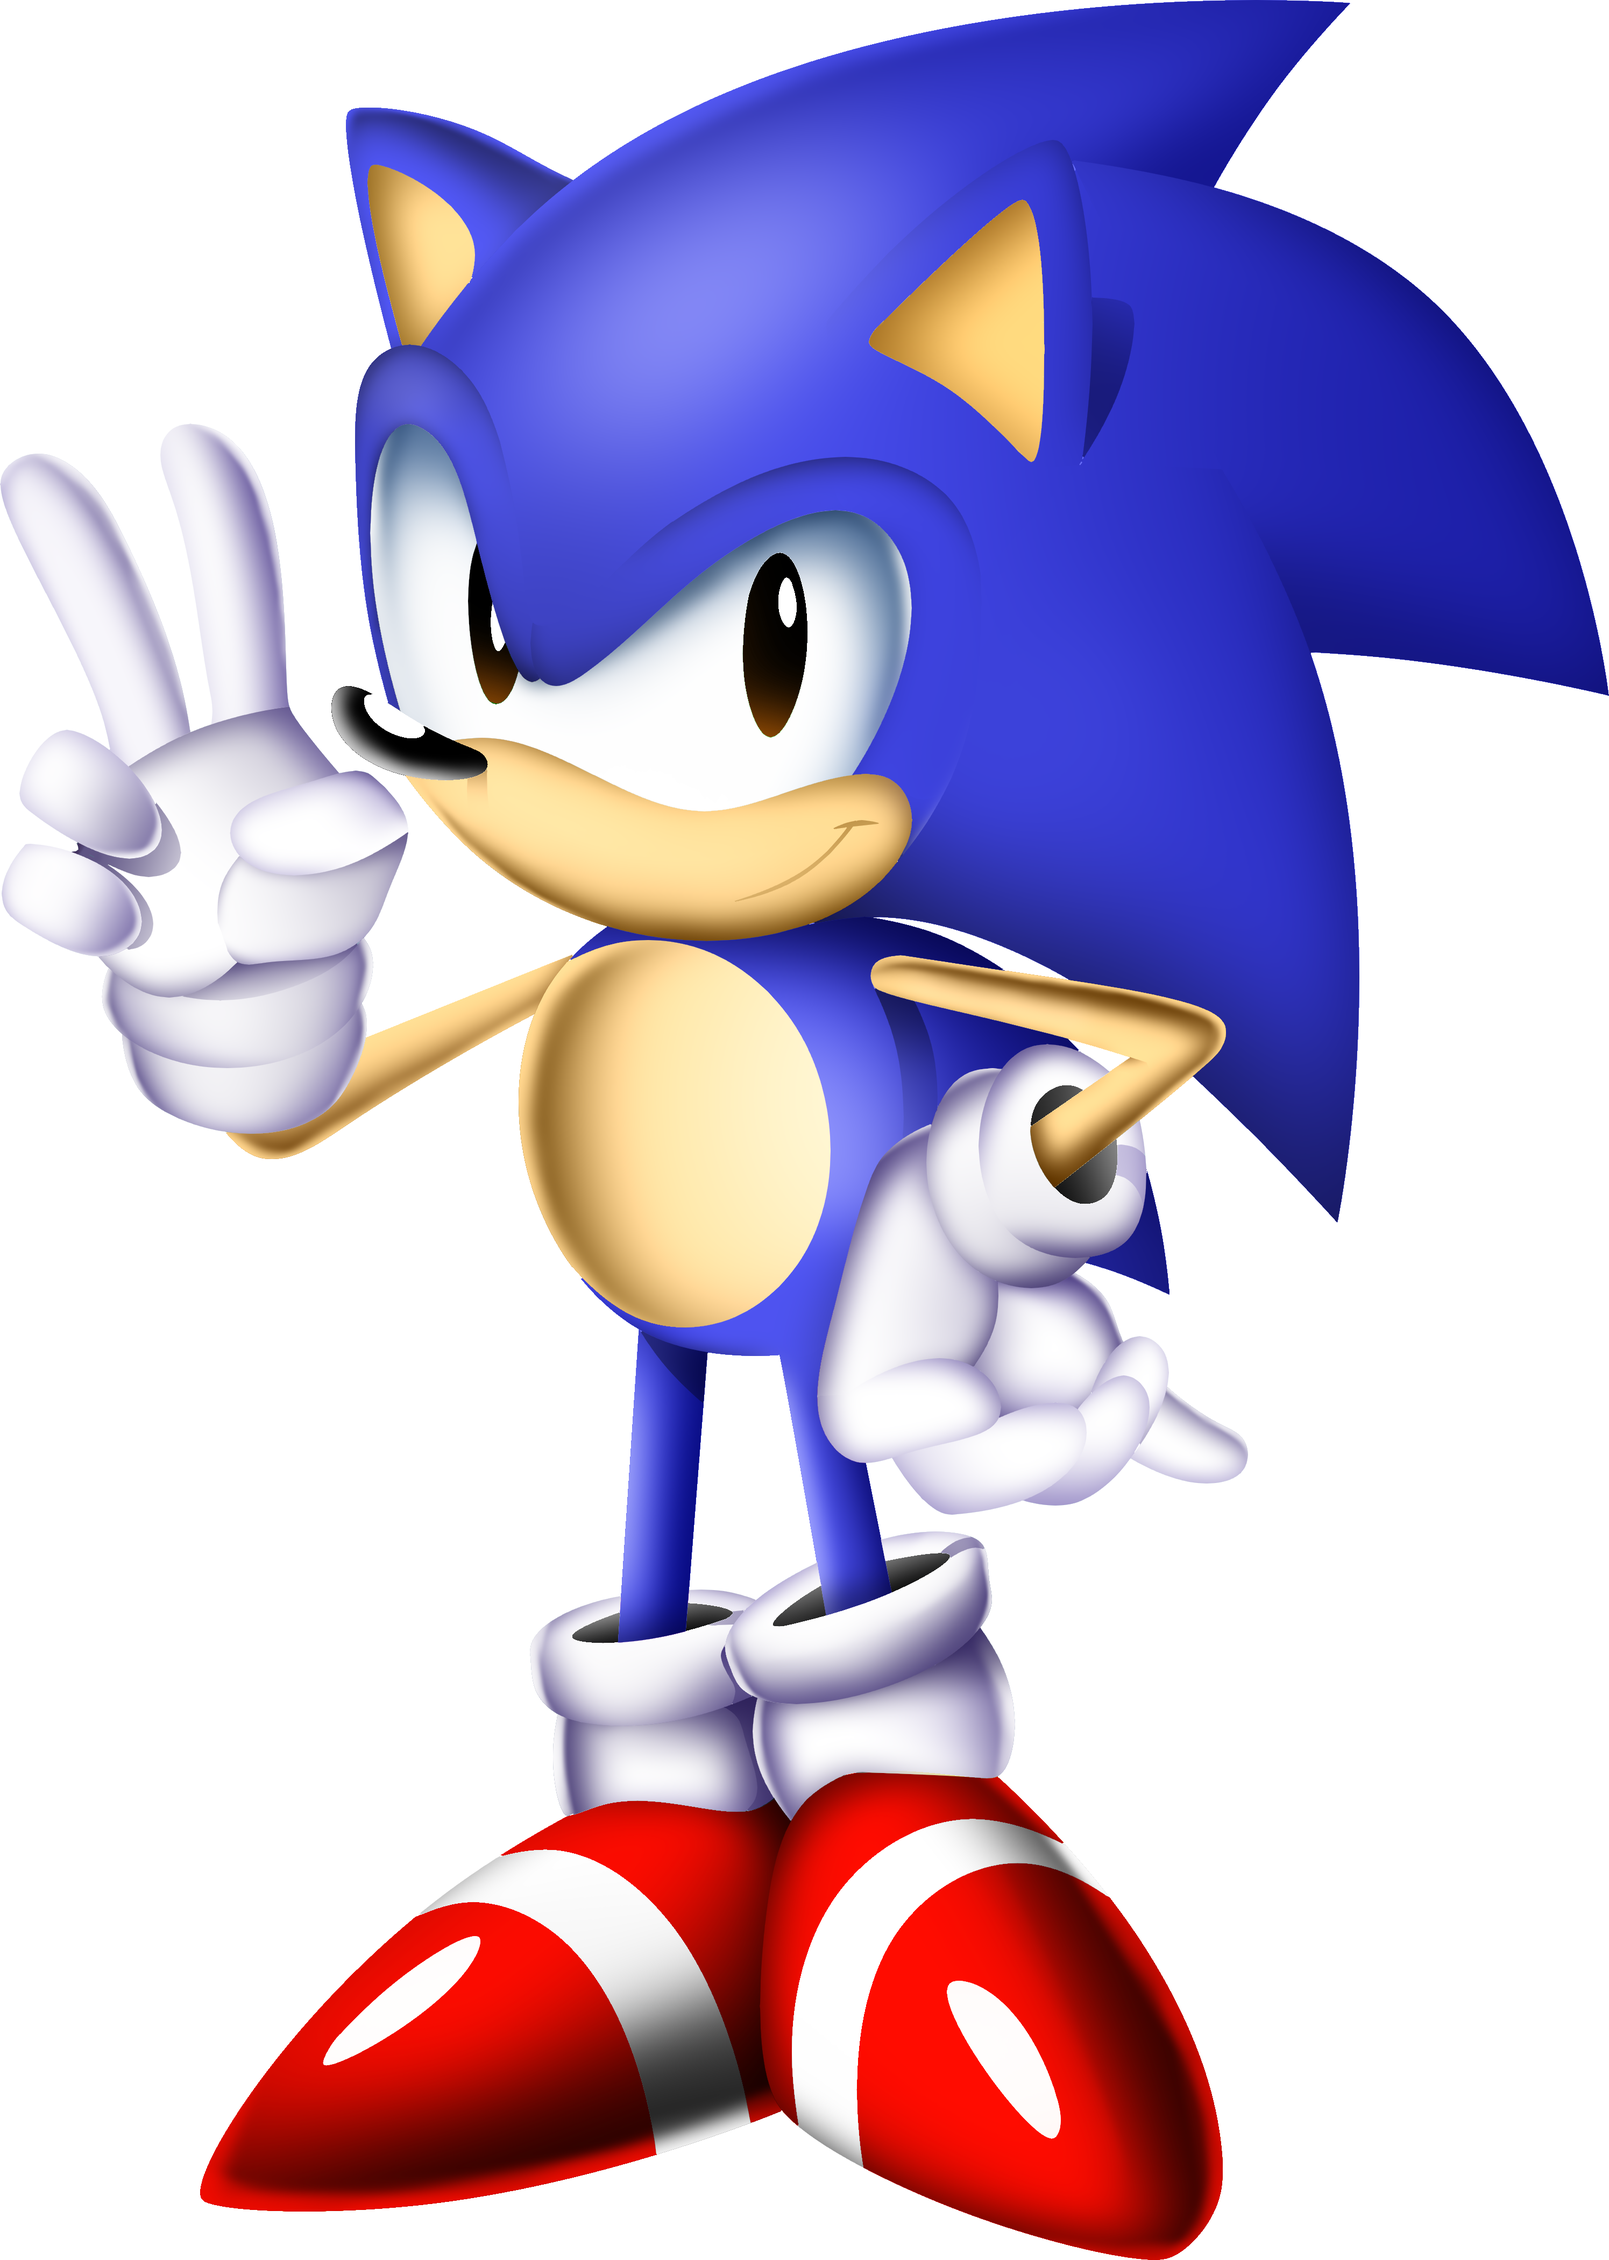
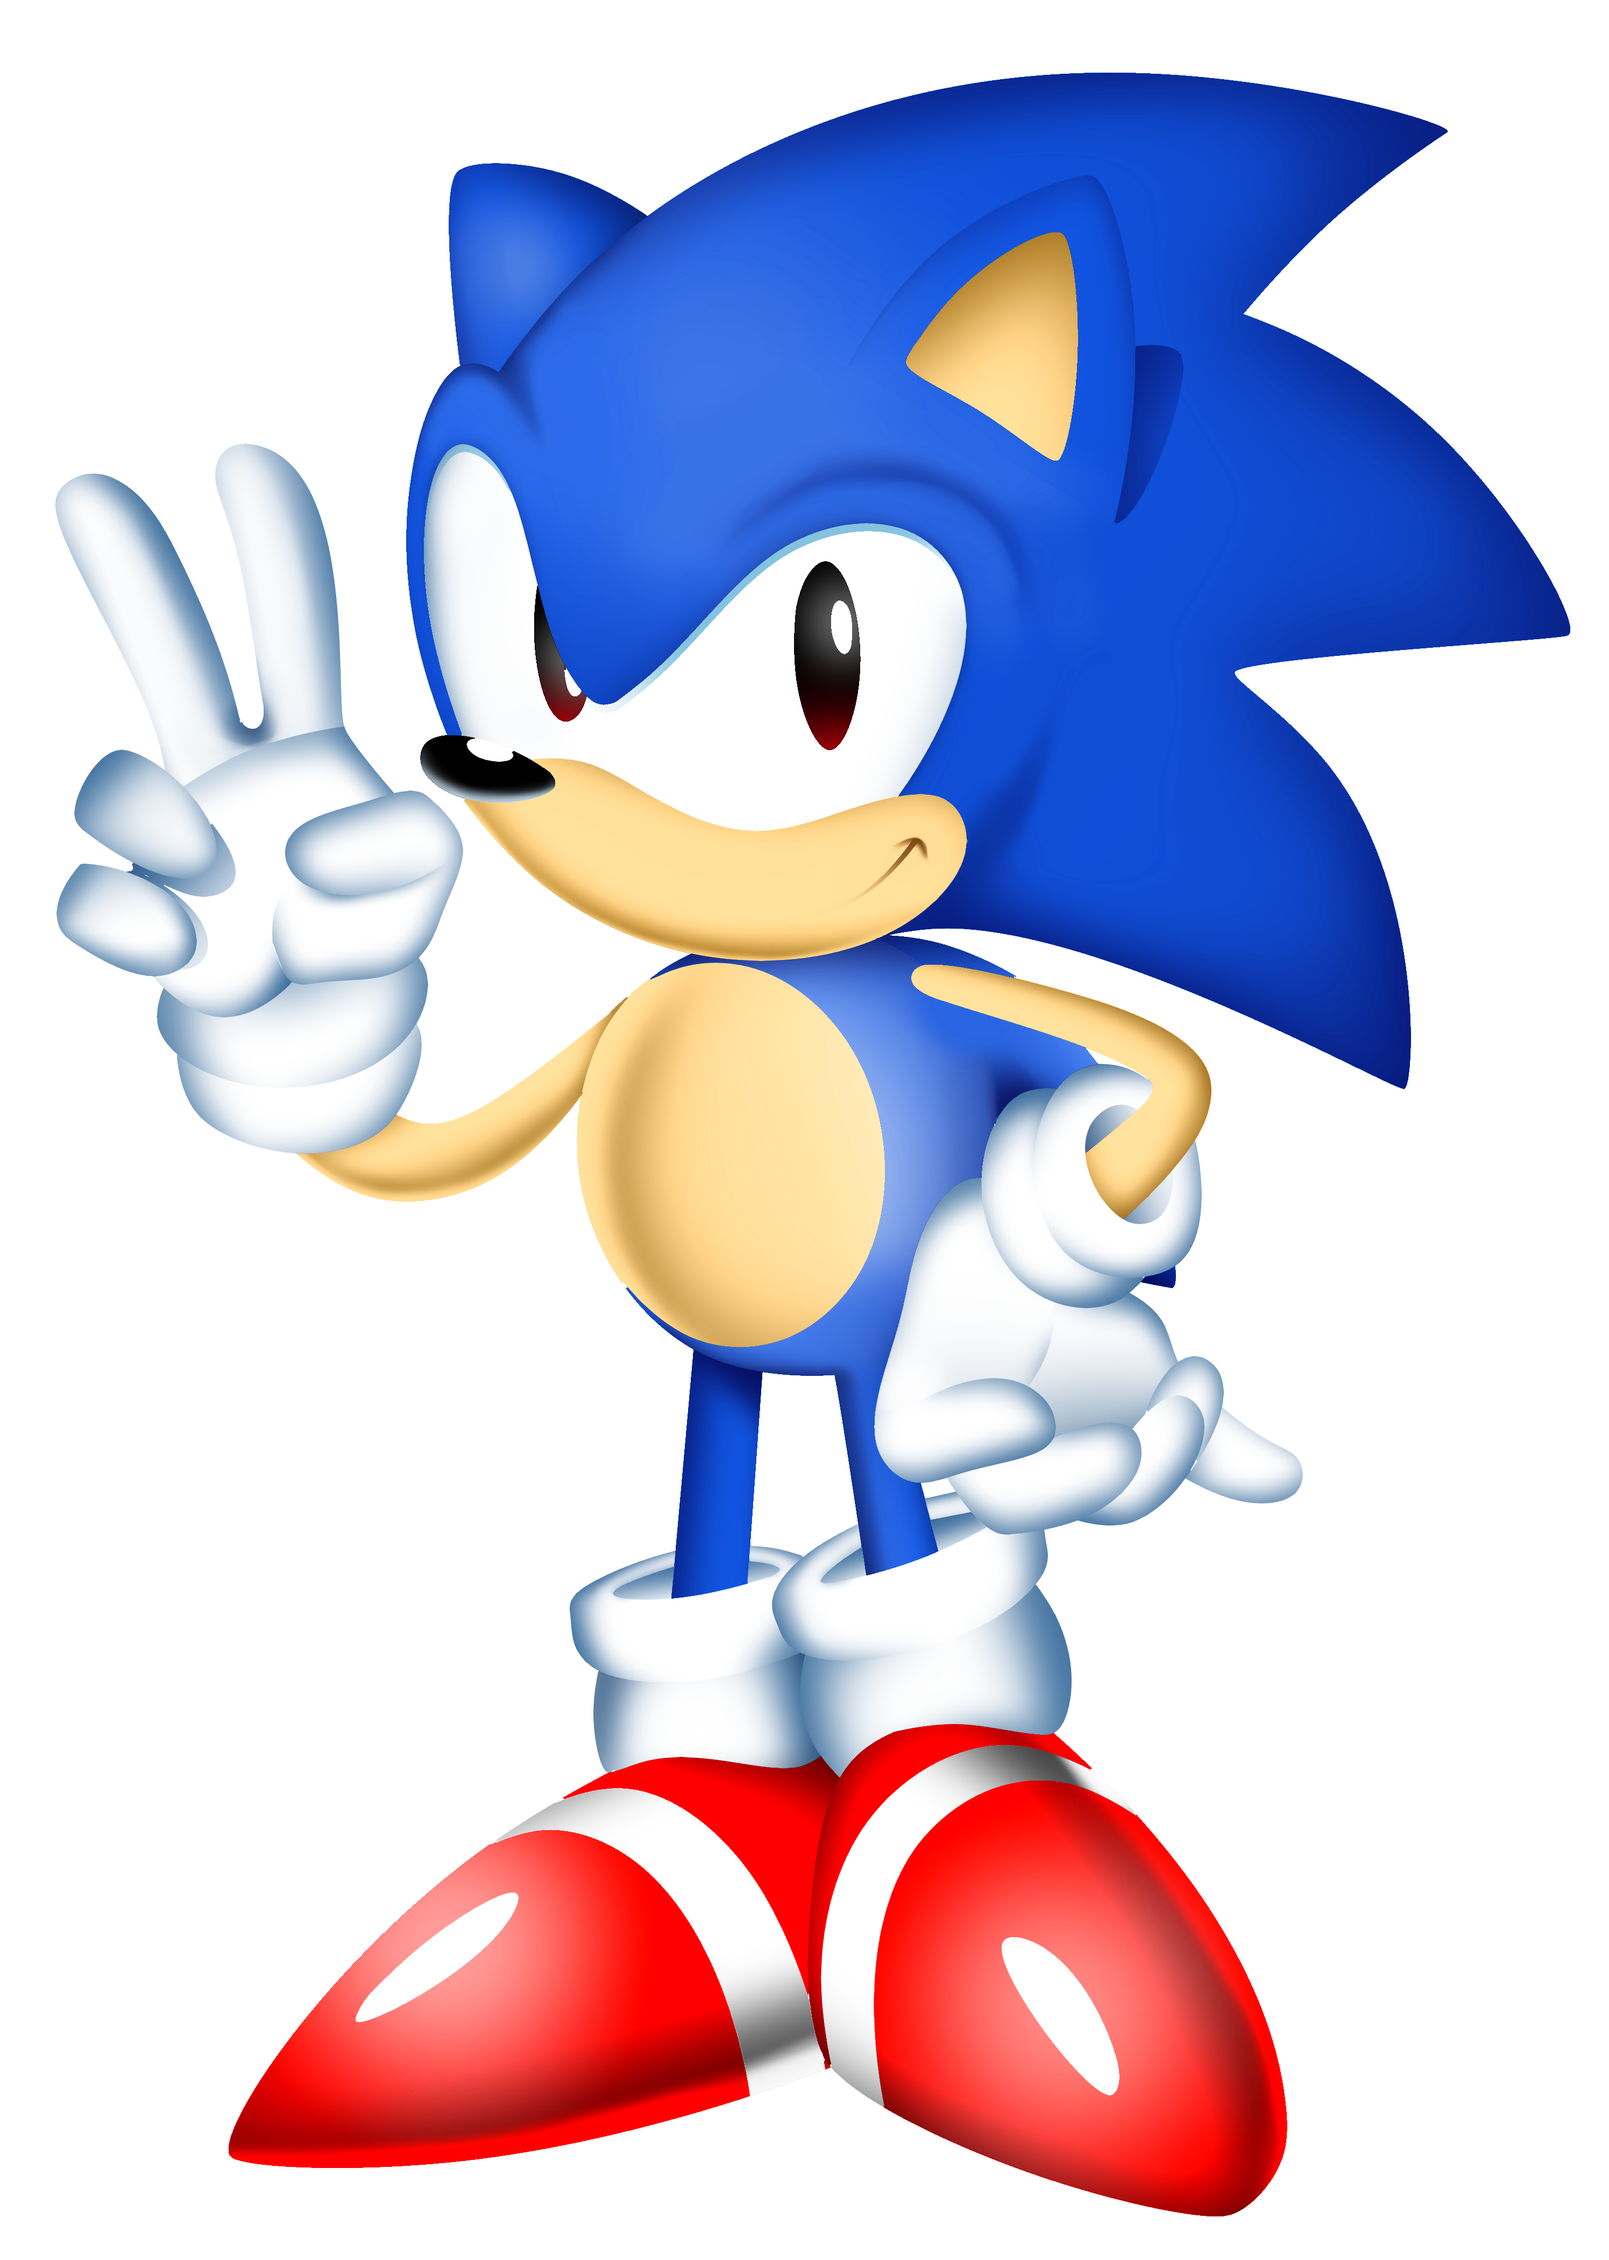
back button + sonic render update
sonic render also updated

diff --git a/index.html b/index.html
@@ -17,11 +17,15 @@
 						<li class="nav-item"><a href="characters.html">CHARACTERS</a></li>
 						<li class="nav-item"><a href="download.html">DOWNLOADS</a></li>
 						<li class="nav-item"><a href="stages.html">STAGES</a></li>
+						<li class="nav-item"><a href="https://sonikast.github.io/index.html">BACK</a></li>
 					</ul>
 				</nav>
 			</div> 
 			<h2>What is Sonic Quest?</h2>
-			<p>Sonic Quest is a classic Sonic fangame where Sonic and Tails have to stop Dr. Robotnik from destroying the planet with his brand new machine, the Steampunk Egg!</p>
+			<p>Sonic Quest is a classic Sonic fangame where Sonic and Tails have to stop Dr. Robotnik
+			from destroying the planet with his brand new machine, the Steampunk Egg! I no longer care
+			for this game, but I decided to keep a page for it up on the website in order to keep a memory of
+			it. So I guess enjoy what was done.</p>
 		</div>
 	</body>
 </html>

diff --git a/story.html b/story.html
@@ -17,6 +17,7 @@
 						<li class="nav-item"><a href="characters.html">CHARACTERS</a></li>
 						<li class="nav-item"><a href="download.html">DOWNLOADS</a></li>
 						<li class="nav-item"><a href="stages.html">STAGES</a></li>
+						<li class="nav-item"><a href="https://sonikast.github.io/index.html">BACK</a></li>
 					</ul>
 				</nav>
 			</div> 

diff --git a/stages.html b/stages.html
@@ -17,6 +17,7 @@
 						<li class="nav-item"><a href="characters.html">CHARACTERS</a></li>
 						<li class="nav-item"><a href="download.html">DOWNLOADS</a></li>
 						<li class="nav-item"><a href="#">STAGES</a></li>
+						<li class="nav-item"><a href="https://sonikast.github.io/index.html">BACK</a></li>
 					</ul>
 				</nav>
 			</div> 

diff --git a/download.html b/download.html
@@ -17,6 +17,7 @@
 						<li class="nav-item"><a href="characters.html">CHARACTERS</a></li>
 						<li class="nav-item"><a href="#">DOWNLOADS</a></li>
 						<li class="nav-item"><a href="stages.html">STAGES</a></li>
+						<li class="nav-item"><a href="https://sonikast.github.io/index.html">BACK</a></li>
 					</ul>
 				</nav>
 			</div> 

diff --git a/characters.html b/characters.html
@@ -17,6 +17,7 @@
 						<li class="nav-item"><a href="#">CHARACTERS</a></li>
 						<li class="nav-item"><a href="download.html">DOWNLOADS</a></li>
 						<li class="nav-item"><a href="stages.html">STAGES</a></li>
+						<li class="nav-item"><a href="https://sonikast.github.io/index.html">BACK</a></li>
 					</ul>
 				</nav>
 			</div> 
